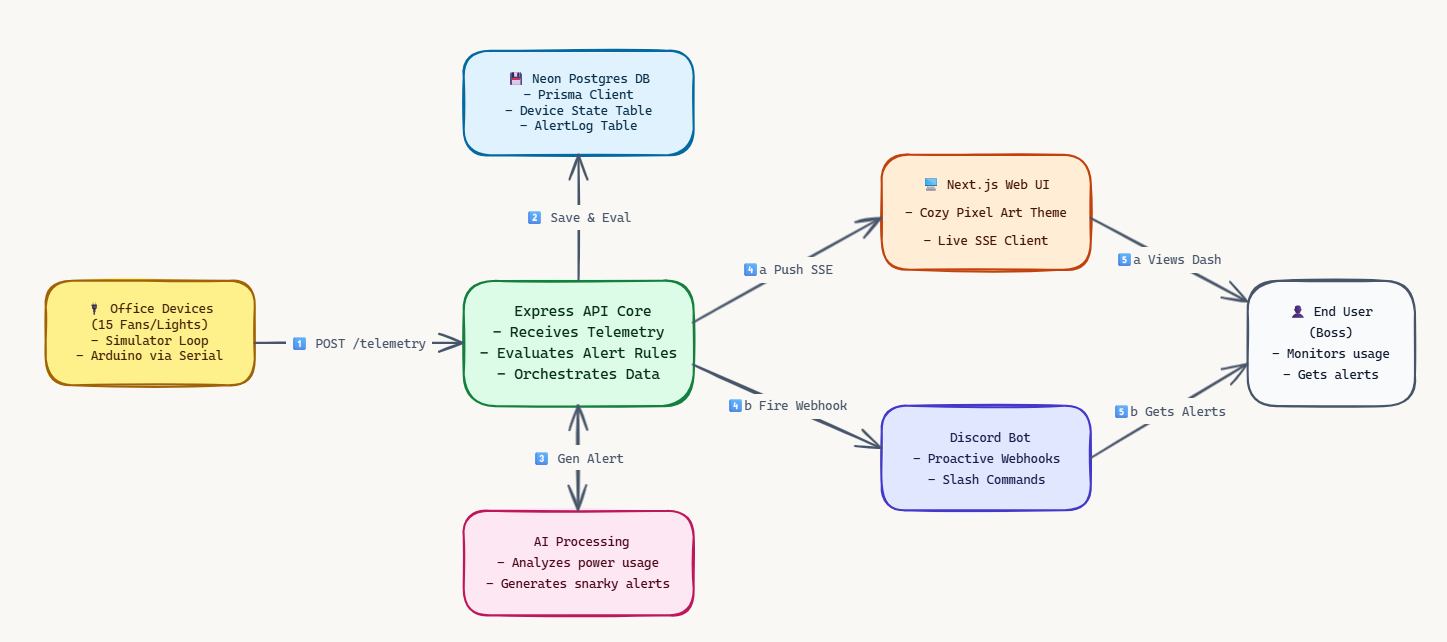
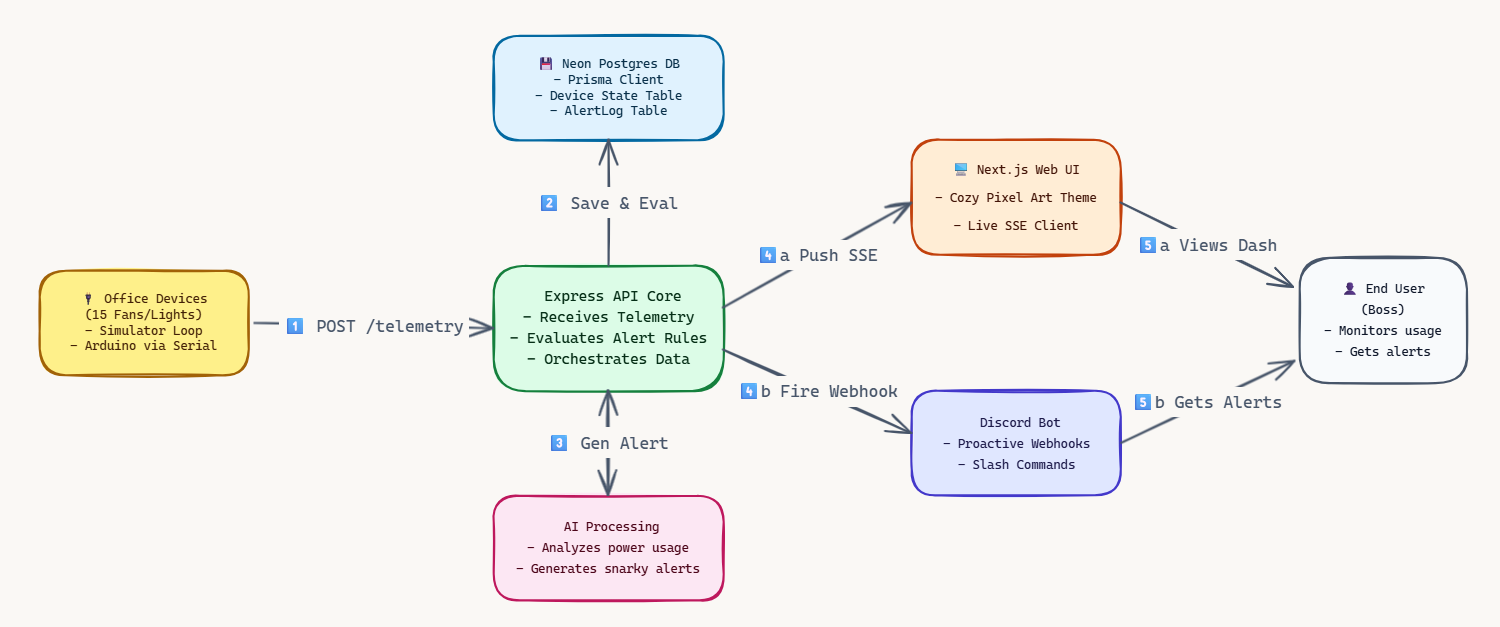
Polished readme

Changed region(s): [[0.0, 0.2121, 0.9952, 0.9697], [0.311, 0.0303, 0.4976, 0.2727], [0.3421, 0.303, 0.4665, 0.3636]]

diff --git a/README.md b/README.md
@@ -1,139 +1,125 @@
-# ⚡ The Big Boss Idea
-### National Hackathon MVP - Cozy Office Energy Monitoring System
+#  The Big Boss Idea
 
-**The Big Boss Idea** is a Nintendo-style (Stardew Valley / Animal Crossing cozy-cottage vibe) office energy monitoring system designed to keep employees accountable for active device waste. It features an Express backend hosting a simulated device data layer (Postgres via Prisma), a Next.js real-time visual web dashboard, a Wokwi hardware schematic concept, and an opinionated Discord bot that queries active device logs and generates conversational, cheeky energy reviews using the Gemini AI SDK.
-
-Presented by team **IUT_zeroXP**.
+> by team **IUT_zeroWin** for IUTRS Techathon 2026 Hackathon
 
 ---
 
-## 🗺️ System Flow Diagram
+##  Google Drive Video Demo
+> 🎥 **Watch the 3-Minute Walkthrough:** [Google Drive Demo Video Link](https://drive.google.com/drive/folders/1j_BLsO_BZpWuDSEtGhrJvv4jLnvzzM_L?usp=sharing)
+>
 
-The high-level integration architecture and data flows are illustrated below:
 
+---
+
+##  Interactive Web Showcase
+
+Instead of cold, corporate data tables, **The Big Boss Idea** wraps workplace conservation in a delightful visual layout inspired by retro titles like *Stardew Valley* and *Animal Crossing*.
+
+###  Cozy Day & Night UI Themes
+The interface automatically transitions its visual style based on local client hours (or via a manual header override). Below, see how the office shift looks in daylight versus a cozy night layout with illuminated glows:
+
+|  Day Mode |  Night Mode |
+| :---: | :---: |
+| ![Day Mode](assets/webui_day.png) | ![Night Mode](assets/webui_night.png) |
+
+### 📊 Real-time Device Operations & Analytics
+Toggle active devices to instantly sync Wattage across the top-down pixel map and view system anomalies (like after-hours usage or devices left on too long):
+
+![Analytics Dashboard](assets/webui_analysis_dashboard.png)
+
+---
+
+##  Quick-Start Guide (Setup & Running)
+
+This repository is built as a unified monorepo. All services (Backend, Dashboard, Discord Bot) load configuration details from a **single, central `.env` file** in the repository root.
+
+### 1. Configure the Environment
+Copy the environment template in the repository root:
+```bash
+cp .env.example .env
 ```
-[Simulated Device Layer] ──> [Postgres (Prisma)] ──> [Express Backend]
-                                                            │
-                                  ┌─────────────────────────┴─────────────────────────┐
-                                  ▼                                                   ▼
-                       [Next.js Web Dashboard]                             [Discord Bot Client]
-                       - Real-time updates (SSE)                           - Conversational AI (Gemini)
-                       - Cozy CSS/SVG Visuals                              - Prefix & Slash commands
-                       - Semicircle Power Gauge                            - Proactive webhook alerts
-```
+Open `.env` and insert your credentials:
+* `DATABASE_URL`: Connection string (PostgreSQL/Neon).
+* `AI_API_KEY`: Google Gemini or provider API key.
+* `AI_API_KEY`: Google Gemini or provider API key.
+* `DISCORD_BOT_TOKEN`: Discord Bot API client token.
+* `DISCORD_WEBHOOK_URL`: Discord alert channel webhook.
 
-> [!NOTE]
-> A complete system diagram editable code file is saved in the repository at [assets/system_diagram.excalidraw](file:///d:/new_wrkspc/techathon_hackathon_2026/assets/system_diagram.excalidraw). You can import this file directly into [Excalidraw](https://excalidraw.com) to view or edit the full design canvas.
-
----
-
-## 🔌 Hardware / Electrical Schematic
-
-The conceptual circuit schematic representing one room's wiring (ESP32/Arduino, Relays, Lights, Fans, and Current Sensors) is saved directly in the repository.
-
-* **Microcontroller:** ESP32 DevKit V1
-* **Lights:** 3 LEDs controlled by 3 Relays (GPIO Pins 12, 14, 27)
-* **Fans:** 2 DC Motors controlled by 2 Relays (GPIO Pins 26, 25)
-* **Current Sensor:** ACS712 Current Sensor reading total power draw (ADC Pin 34)
-
-Judges can open the circuit wiring simulation and code files in the repository.
-
----
-
-## ⚙️ Setup & Installation
-
-### Step 1: Environment Configuration
-The project uses a **single, unified `.env` file** in the repository root for all packages:
-
-1. In the root directory, copy `.env.example` to `.env`:
-   ```bash
-   cp .env.example .env
-   ```
-2. Open `.env` and fill in your actual credentials:
-   * **`DATABASE_URL`**: Your Neon Postgres connection string.
-   * **`AI_API_KEY`**: Your Gemini API key.
-   * **`DISCORD_BOT_TOKEN`**: Your Discord bot token.
-   * **`DISCORD_WEBHOOK_URL`**: Your Discord alert channel Webhook.
-   * **`STUCK_ON_THRESHOLD_MS`**: `7200000` (e.g. 2 hours, set to `10000` / 10s during video demo).
-
----
-
-### Step 2: Database Migration & Seeding
-Prisma commands must be executed from the `/backend` folder (which automatically climbs up to read the root `.env`):
+### 2. Deploy Database & Seed Starting Data
+Deploy the Prisma schema to Postgres and seed the starting room devices:
 ```bash
 cd backend
 npm install
 npx prisma generate
-npx prisma migrate dev --name init_energy_db
+npx prisma migrate dev --name init_db
 npx prisma db seed
 ```
-*Note: Seeding creates all 15 devices (Drawing Room: 2 fans, 3 lights; Work Room 1: 2 fans, 3 lights; Work Room 2: 2 fans, 3 lights) with a realistic mix of ON/OFF states and randomized past offsets (0 to 4 hours ago) so that stuck-on alerts are testable immediately.*
+
+### 3. Run Services
+Launch each system service in a separate terminal from the root folder:
+
+* **Terminal 1: Express API & Simulator**
+  ```bash
+  cd backend
+  npm run dev
+  ```
+  *(Starts Server-Sent Events, endpoints, and the workday device occupancy loop)*
+
+* **Terminal 2: Next.js Web Dashboard**
+  ```bash
+  cd dashboard
+  npm install
+  npm run dev
+  ```
+  *(Dashboard runs live at http://localhost:3000)*
+
+* **Terminal 3: Discord Bot Client**
+  ```bash
+  cd bot
+  npm install
+  npm run dev
+  ```
+
 
 ---
 
-## 🚀 Running the Services
+##  System Blueprints & Hardware
 
-You will need three terminal windows to run all services in development mode:
+### 1. High-Level System Architecture
+Flow of telemetry information from simulated hardware endpoints down to the databases, REST interfaces, client UIs, and the Discord server:
 
-### 1. Launch the Backend API & Simulation Loop
-Starts the server on `http://localhost:5000` (along with the weighted day/night simulation loop):
-```bash
-cd backend
-npm run dev
-```
+![System Architecture](assets/system_design.png)
 
-### 2. Launch the Next.js Web Dashboard
-Starts the Next.js development server on `http://localhost:3000` (automatically reading the backend URL configuration from the root `.env`):
-```bash
-cd dashboard
-npm install
-npm run dev
-```
+> [!TIP]
+> The original Excalidraw design source is located at [assets/system_diagram.excalidraw](./assets/system_diagram.excalidraw). You can import it back into [Excalidraw](https://excalidraw.com) to edit or inspect.
 
-### 3. Launch the Discord Bot Client
-Starts the Discord bot client:
-```bash
-cd bot
-npm install
-npm run dev
-```
+### 2. ESP32 Physical Circuit Schematic
+Wiring blueprint representing a single office room's physical sensor network and output relays:
+
+![Hardware Schematic](Circuit-Schema/schema.jpeg)
+
+* **Microcontroller:** ESP32 DevKit V1
+* **Relay-Controlled Outputs:** 3 Lights (GPIO 12, 14, 27) and 2 Fans (GPIO 26, 25)
+* **Telemetry Sensing:** ACS712 Current Sensor reading total power draw (ADC Pin 34)
+*  **Live Simulator:** [Simulate the ESP32 circuit on Wokwi](https://wokwi.com/projects/468548194305602561)
+*  **Hardware Files:** Arduino sketch and component mappings can be inspected in the [Circuit-Schema](./Circuit-Schema) directory.
 
 ---
 
-## 🧠 Dynamic Simulation & Alert Pipeline
+## Features & Technology Stack
 
-* **Occupancy Weights:** The simulator implements realistic time-of-day biased state changes (e.g., higher probability of turning devices ON during work hours 9 AM – 5 PM; 80% chance of turning devices OFF outside work hours).
-* **Alert Deduplication:** Active alerts are evaluated and logged to the `AlertLog` table in the database. Fired alerts are deduplicated by `type + room + sortedDeviceIds` to prevent duplicate database logs and Discord webhook spam.
-* **Auto-Resolution:** Once a device is turned off or office hours resume, the alert resolves automatically, updating its status to `resolved = true` in Postgres.
+Our system is structured as a unified monorepo leveraging lightweight services designed to work in synergy:
 
----
+### Frontend: Next.js (TypeScript) & Vanilla CSS
+* **Retro Cozy-Cottage Aesthetic:** Instead of flat, corporate dashboard grids, the dashboard is themed after games like *Stardew Valley* and *Animal Crossing*. It features custom top-down office layouts, spinning fan blades (driven by CSS keyframe animations), and warm lightbulb glows.
+* **Day & Night Transitions:** Theme styles shift between warm parchment (day) and dusky indigo (night) automatically based on the user's local clock (or manual override).
+* **Real-time Event Synchronization (SSE):** Utilizes Server-Sent Events (SSE) to push instant state updates across all active dashboard clients, ensuring zero manual page refreshes when a device toggles.
 
-## 📊 REST API & SSE Contracts
+###  Backend: Node.js, Express (TypeScript) & Prisma ORM
+* **Unified Neon PostgreSQL Database:** Stores device details and persistent alert configurations under a single source of truth.
+* **Workday-Weighted Simulator Engine:** Features a custom background loop simulating active office occupancy. Devices organically toggle on and stay on during core business hours (9 AM - 5 PM) and have a high probability of shut-off in the evening.
+* **Stateful Anomaly Logging:** Automatically monitors and flags devices left on after-hours or active for too long (> 2 hours), persisting alerts in the `AlertLog` table to prevent duplicate notifications.
 
-* **GET `/health`**: Returns `{ "status": "healthy", "database": "connected" }`.
-* **GET `/devices`**: Returns a list of all 15 devices.
-* **GET `/rooms/:room`**: Filtered list of devices (`drawing`, `work1`, `work2`).
-* **GET `/usage`**: Returns total active wattage load and a per-room breakdown.
-* **GET `/alerts`**: Returns active computed anomalies.
-* **POST `/devices/:id/toggle`**: Toggles a device status (e.g. `drawing-fan-1`) and broadcasts state.
-* **GET `/stream` (SSE)**: Pushes updates to the dashboard instantly on simulation ticks or manual clicks.
-
----
-
-## 🤖 Discord Bot Commands
-
-| Command | Expected Output / Behavior |
-| :--- | :--- |
-| **`!status`** / **/status** | Returns a friendly, conversational summary of active room device counts. |
-| **`!room <name>`** / **/room** | Status of a specific room (drawing, work1, work2). |
-| **`!usage`** / **/usage** | Live power consumption and daily estimated kWh usage. |
-| **/predict** | Proposes EOD usage forecasts and one actionable energy tip. |
-| **/ask** | Interactively answers energy-saving questions using Stardew Valley-style AI. |
-
----
-
-## 🎮 How to Demo (Video Guide)
-
-1. Open two browser tabs side-by-side at [http://localhost:3000](http://localhost:3000). Toggling a device in Tab A instantly propagates the updates (animated fan blades, glowing bulbs, dial needle) in Tab B.
-2. Go to Discord and type `!usage` or `/status` to show conversational Gemini replies.
-3. Turn a device ON after hours, wait for the dynamic AI webhook alert to fire in your Discord channel, and watch it resolve in the database once turned OFF.
+### Chat Assistant: Discord.js & Google Gemini AI
+* **Cheeky Energy Reviews:** The Discord bot processes raw database telemetry and routes it through the Gemini AI SDK, translating dry metrics into humorous, conversational, and highly opinionated energy reports (queried via `!status`, `!usage`, or `!room`).
+* **Auto-Resolving Webhook Alerts:** Posts alert notifications directly to your Discord channel when anomalies are first detected. When the device is toggled off, the system automatically resolves the warning in the database.